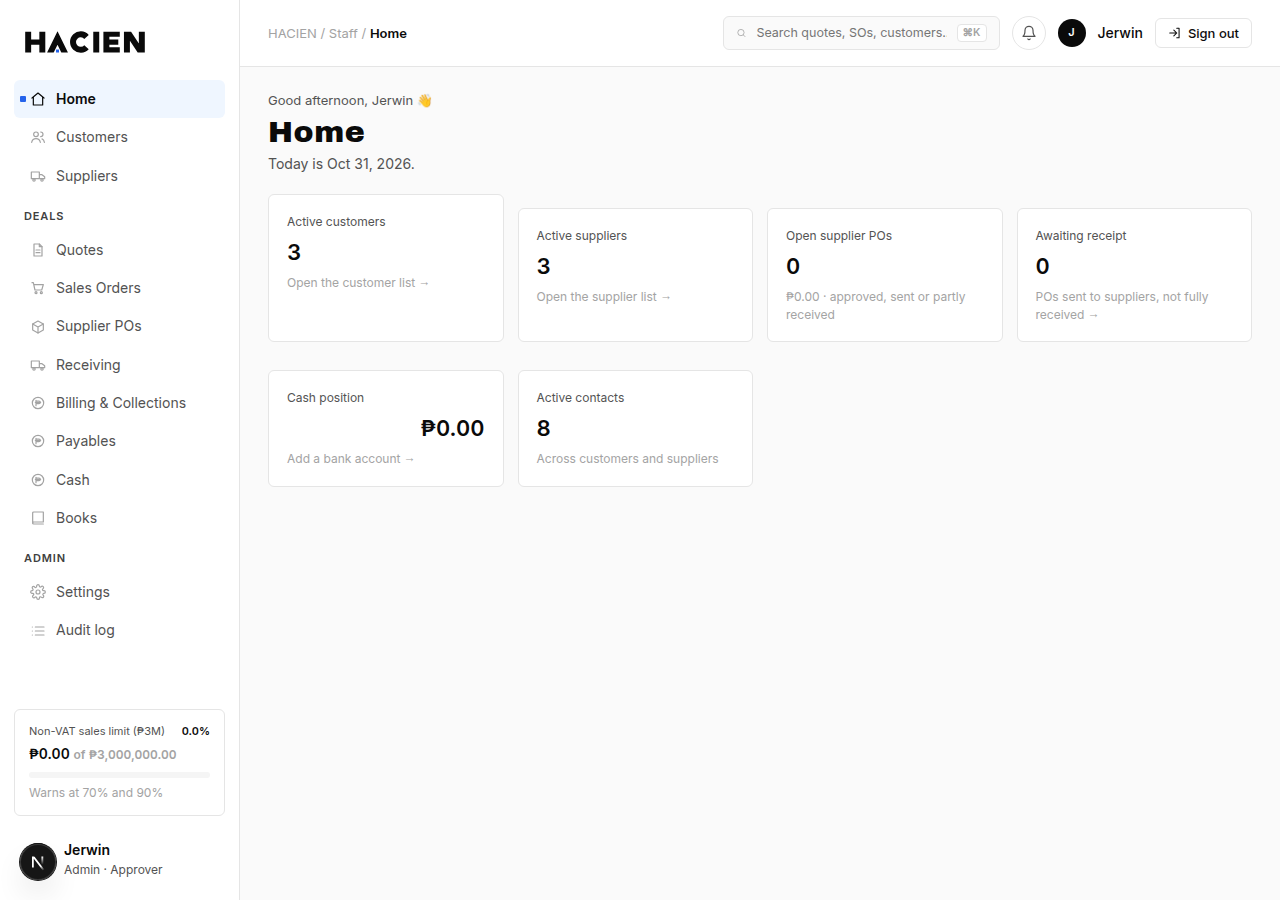
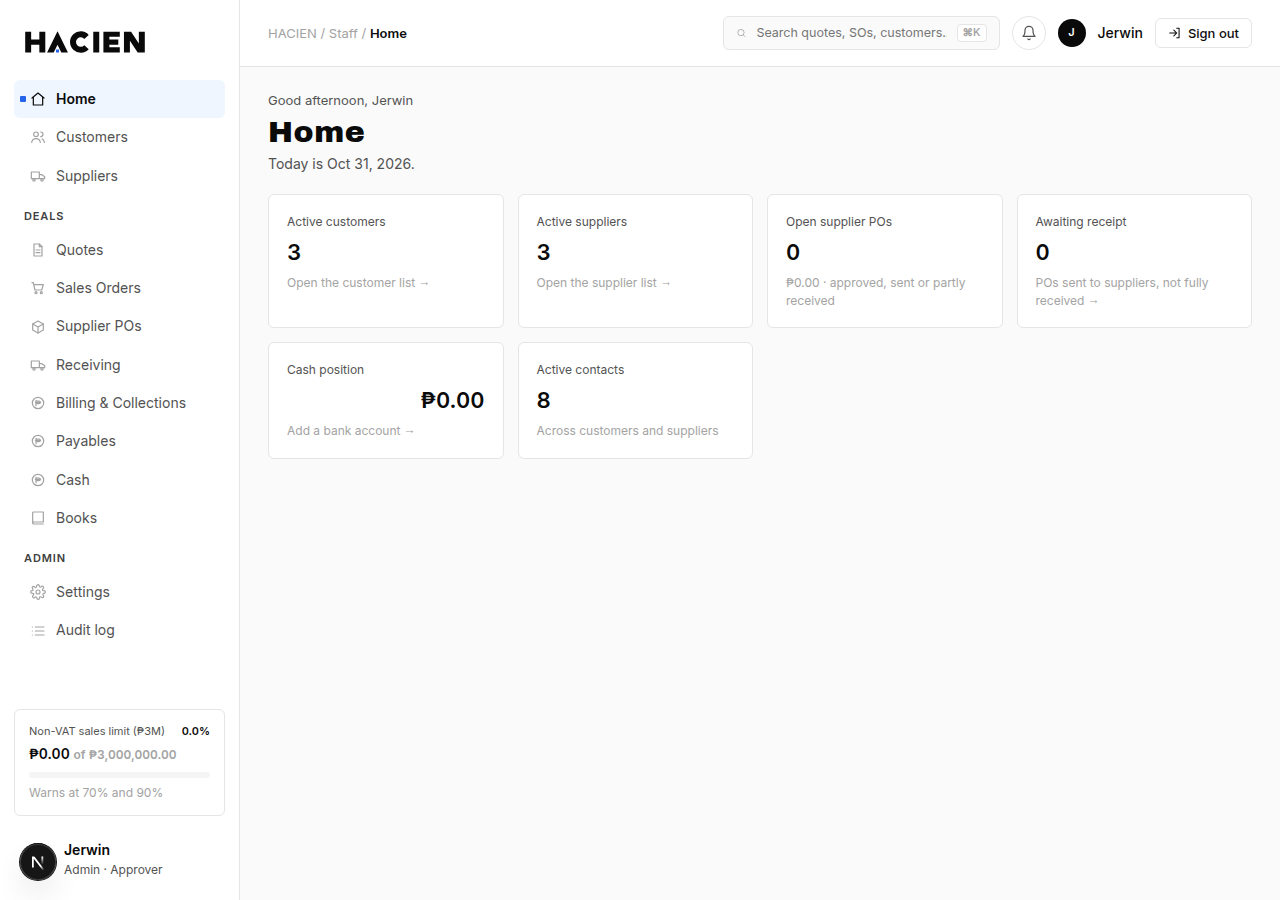
Fix proxy public-asset allowlist; even home cards; drop greeting emoji.
Narrow the session-check matcher to _next/static, _next/image, /brand/*,
and exact favicon/icon/manifest paths (no extension wildcard). Add tests
for the real matcher + logged-out proxy behaviour. Equalise home summary
card height/alignment and remove the wave emoji from the greeting.

diff --git a/tests/proxy-public-assets.test.ts b/tests/proxy-public-assets.test.ts
@@ -1,0 +1,128 @@
+import { describe, expect, it } from "vitest";
+import { NextRequest } from "next/server";
+import {
+  config,
+  isPublicAssetPath,
+  proxy,
+  PROXY_MATCHER,
+  PUBLIC_ASSET_EXACT,
+  PUBLIC_ASSET_PREFIXES,
+  shouldCheckSession,
+} from "@/proxy";
+
+/** Apply the real exported middleware matcher string to a pathname (as Next does). */
+function matcherHits(pathname: string): boolean {
+  const patterns = Array.isArray(config.matcher) ? config.matcher : [config.matcher];
+  return patterns.some((pattern) => {
+    // Next middleware matchers are path-to-regexp-ish; our patterns are a single
+    // negative-lookahead form. Compile the same way: strip leading slash from the
+    // pattern's "/((?!...).*)" and test against pathname without the leading slash
+    // for the inner group — or test the full pathname against a RegExp derived
+    // from the matcher string.
+    const raw = pattern.startsWith("/") ? pattern.slice(1) : pattern;
+    // Escape only what's needed: the matcher is already a regex-ish string.
+    const re = new RegExp(`^${raw}$`);
+    const path = pathname.startsWith("/") ? pathname.slice(1) : pathname;
+    return re.test(path);
+  });
+}
+
+function loggedOut(url: string) {
+  return new NextRequest(url); // no hacien_session cookie
+}
+
+describe("proxy public-asset allowlist (security)", () => {
+  it("lists only exact icon/favicon/manifest names and brand/_next prefixes (no extension wildcard)", () => {
+    expect(PUBLIC_ASSET_EXACT).toEqual([
+      "/favicon.ico",
+      "/icon.png",
+      "/apple-icon.png",
+      "/icon",
+      "/apple-icon",
+      "/site.webmanifest",
+    ]);
+    expect(PUBLIC_ASSET_PREFIXES).toEqual(["/_next/static", "/_next/image", "/brand/"]);
+    const matcherLine = Array.isArray(config.matcher) ? config.matcher[0] : config.matcher;
+    expect(matcherLine).toBe(PROXY_MATCHER);
+    expect(matcherLine).not.toMatch(/\.\*\??\\\.\(\?:svg/);
+    expect(matcherLine).not.toMatch(/svg\|png\|jpg/);
+    expect(matcherLine).toContain("brand/");
+    expect(matcherLine).toContain("favicon\\.ico");
+    expect(matcherLine).toContain("site\\.webmanifest");
+  });
+
+  it("matcher and isPublicAssetPath agree: session check skipped only for allowlisted assets", () => {
+    const open = [
+      "/brand/logo-full.svg",
+      "/brand/logo-wordmark.svg",
+      "/brand/icon-32.png",
+      "/favicon.ico",
+      "/icon.png",
+      "/apple-icon.png",
+      "/icon",
+      "/apple-icon",
+      "/site.webmanifest",
+      "/_next/static/chunks/app.js",
+      "/_next/image",
+    ];
+    for (const path of open) {
+      expect(isPublicAssetPath(path), path).toBe(true);
+      expect(shouldCheckSession(path), path).toBe(false);
+      expect(matcherHits(path), `matcher should skip ${path}`).toBe(false);
+    }
+
+    const gated = [
+      "/api/anything.png",
+      "/api/x.svg",
+      "/customers/foo.png",
+      "/customers/photo.svg",
+      "/files/attachments/1.png",
+      "/login.png",
+      "/evil.ico",
+      "/site.webmanifest.bak",
+      "/brand",
+      "/customers",
+      "/",
+    ];
+    for (const path of gated) {
+      expect(isPublicAssetPath(path), path).toBe(false);
+      expect(shouldCheckSession(path), path).toBe(true);
+      expect(matcherHits(path), `matcher should hit ${path}`).toBe(true);
+    }
+  });
+
+  it("logged out: /api/anything.png, /api/x.svg and /customers/foo.png still get the session redirect", () => {
+    for (const path of ["/api/anything.png", "/api/x.svg", "/customers/foo.png"]) {
+      expect(shouldCheckSession(path)).toBe(true);
+      expect(matcherHits(path)).toBe(true);
+      const res = proxy(loggedOut(`http://localhost${path}`));
+      expect(res.status, path).toBe(307);
+      expect(res.headers.get("location"), path).toBe("http://localhost/login");
+    }
+  });
+
+  it("logged out: /brand logos, favicon, icons and manifest pass without a session", () => {
+    for (const path of [
+      "/brand/logo-full.svg",
+      "/brand/logo-wordmark.svg",
+      "/favicon.ico",
+      "/icon.png",
+      "/apple-icon.png",
+      "/icon",
+      "/apple-icon",
+      "/site.webmanifest",
+    ]) {
+      expect(shouldCheckSession(path)).toBe(false);
+      expect(matcherHits(path)).toBe(false);
+      const res = proxy(loggedOut(`http://localhost${path}`));
+      expect(res.status, path).toBe(200);
+      // next() — no Location redirect
+      expect(res.headers.get("location"), path).toBeNull();
+    }
+  });
+
+  it("logged out: /files/* still 401 (unchanged)", () => {
+    const res = proxy(loggedOut("http://localhost/files/business-documents/abc"));
+    expect(res.status).toBe(401);
+  });
+});

diff --git a/src/proxy.ts b/src/proxy.ts
@@ -5,8 +5,54 @@ import { NextResponse, type NextRequest } from "next/server";
 
 const PUBLIC = ["/login", "/forgot-password", "/reset-password"];
 
+/**
+ * Exact public asset paths that skip the session gate (favicon, app icons, PWA
+ * manifest). Prefixes are listed separately — never a generic file-extension rule.
+ */
+export const PUBLIC_ASSET_EXACT = [
+  "/favicon.ico",
+  "/icon.png",
+  "/apple-icon.png",
+  "/icon",
+  "/apple-icon",
+  "/site.webmanifest",
+] as const;
+
+/** Public asset path prefixes (Next internals + brand kit under /public/brand/). */
+export const PUBLIC_ASSET_PREFIXES = ["/_next/static", "/_next/image", "/brand/"] as const;
+
+/**
+ * Final middleware matcher (must be a static string for Next to parse at build time).
+ * Skips: _next/static, _next/image, /brand/*, and the exact favicon / app-icon /
+ * manifest paths. No generic "any .png/.svg" exception.
+ */
+export const PROXY_MATCHER =
+  "/((?!_next/static|_next/image|brand/|favicon\\.ico(?:/|$)|icon\\.png(?:/|$)|apple-icon\\.png(?:/|$)|icon(?:/|$)|apple-icon(?:/|$)|site\\.webmanifest(?:/|$)).*)";
+
+/** True when the path is a no-auth static asset (matcher + proxy share this list). */
+export function isPublicAssetPath(pathname: string): boolean {
+  if (PUBLIC_ASSET_EXACT.includes(pathname as (typeof PUBLIC_ASSET_EXACT)[number])) return true;
+  // Next metadata icons may append a size suffix: /icon/32, /apple-icon/180, etc.
+  if (pathname.startsWith("/icon/") || pathname.startsWith("/apple-icon/")) return true;
+  if (pathname.startsWith("/_next/static/") || pathname === "/_next/static") return true;
+  if (pathname.startsWith("/_next/image/") || pathname === "/_next/image") return true;
+  // Brand kit folder only — bare /brand is not public.
+  if (pathname.startsWith("/brand/")) return true;
+  return false;
+}
+
+/**
+ * Whether the proxy session check should run for this pathname.
+ * Mirrors `config.matcher`: returns false for the same paths the matcher skips.
+ */
+export function shouldCheckSession(pathname: string): boolean {
+  return !isPublicAssetPath(pathname);
+}
+
 export function proxy(req: NextRequest) {
   const { pathname } = req.nextUrl;
+  // Defense in depth: even if the matcher is widened later, public assets stay open.
+  if (isPublicAssetPath(pathname)) return NextResponse.next();
   if (PUBLIC.some((p) => pathname === p || pathname.startsWith(`${p}/`))) return NextResponse.next();
   if (!req.cookies.has("hacien_session")) {
     // File downloads answer 401 instead of redirecting to the login page.
@@ -22,9 +68,8 @@ export function proxy(req: NextRequest) {
 }
 
 export const config = {
-  // Skip Next internals, favicon, brand kit assets and other static public files
-  // so login (no session) can still load logos / icons / the web manifest.
+  // Static string required by Next — keep identical to PROXY_MATCHER (tested).
   matcher: [
-    "/((?!_next/static|_next/image|favicon.ico|brand/|site\\.webmanifest|.*\\.(?:svg|png|jpg|jpeg|gif|webp|ico)$).*)",
+    "/((?!_next/static|_next/image|brand/|favicon\\.ico(?:/|$)|icon\\.png(?:/|$)|apple-icon\\.png(?:/|$)|icon(?:/|$)|apple-icon(?:/|$)|site\\.webmanifest(?:/|$)).*)",
   ],
-}
+};

diff --git a/src/app/globals.css b/src/app/globals.css
@@ -536,6 +536,15 @@ a.tracker-card:hover {
   grid-template-columns: repeat(auto-fit, minmax(200px, 1fr));
   gap: 14px;
   margin-bottom: 14px;
+  align-items: stretch;
+}
+/* Defeat `.card + .card { margin-top }` so every card in a row shares one top edge. */
+.stat-grid > .card,
+.stat-grid > a.card {
+  margin-top: 0;
+  height: 100%;
+  align-self: stretch;
+  box-sizing: border-box;
 }
 .stat .label {
   color: var(--text-2);

diff --git a/src/app/(app)/page.tsx b/src/app/(app)/page.tsx
@@ -29,7 +29,7 @@ export default async function HomePage() {
   return (
     <>
       <PageHeader
-        greeting={`${greeting(manilaHour())}, ${first} 👋`}
+        greeting={`${greeting(manilaHour())}, ${first}`}
         title="Home"
         subtitle={`Today is ${formatDate(new Date())}.`}
       />
